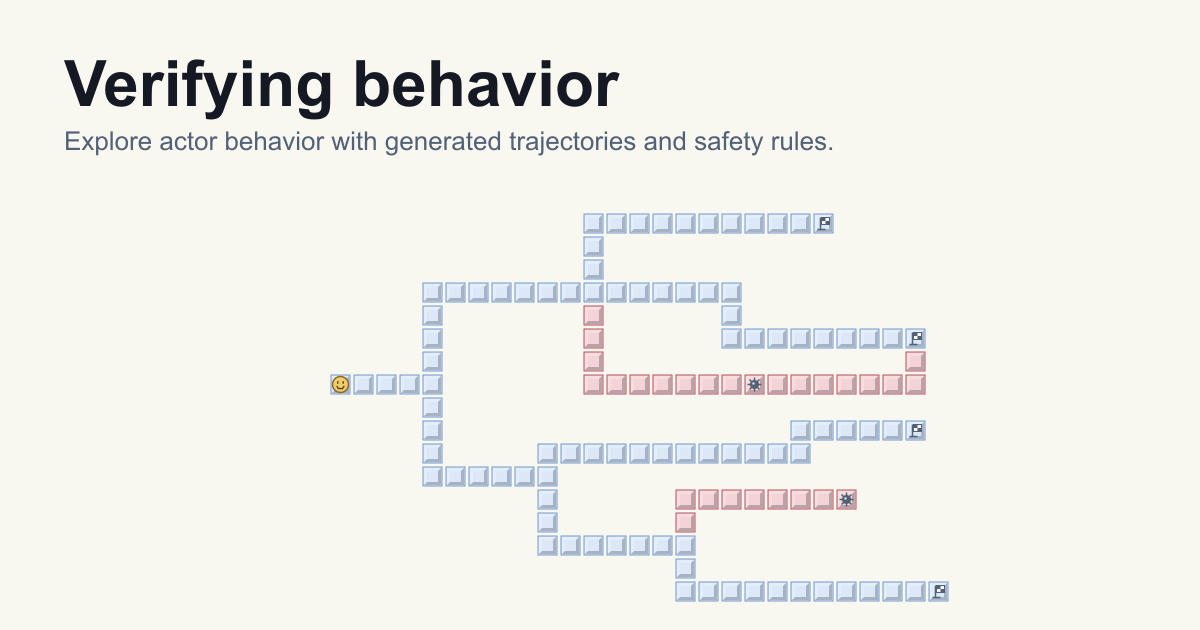
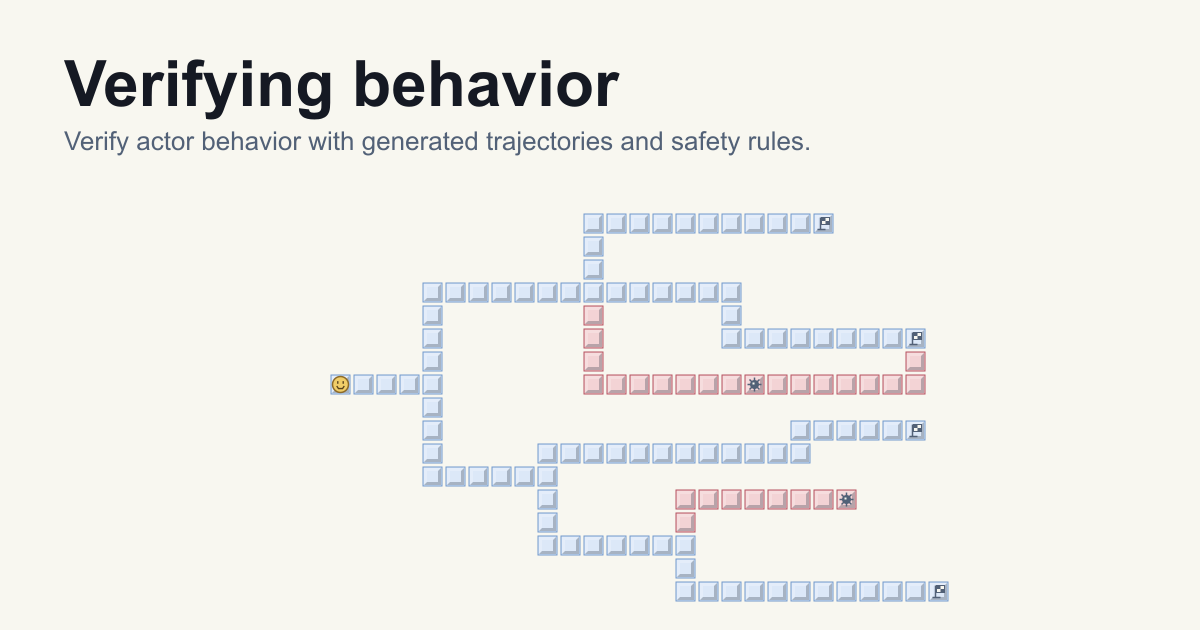
docs: polish verification guide (#513)

Changed region(s): [[0.0308, 0.2111, 0.7092, 0.2413]]

diff --git a/apps/web/src/docs/components/diagrams/FactoryPathsDiagram.tsx b/apps/web/src/docs/components/diagrams/FactoryPathsDiagram.tsx
@@ -63,9 +63,18 @@ const factoryStops = [
   { x: 8, y: 5, kind: "mine", label: "Overflow", water: 12, clips: 1000 },
 ] as const
 
+const mobileStops = [
+  { x: 159, y: 15, kind: "inspect", label: "Inspect", water: 0, clips: 0, gridX: 18, gridY: 8, labelX: 212, labelY: 42, unsafe: false },
+  { x: 159, y: 105, kind: "produce", label: "Batch A", water: 6, clips: 500, gridX: 18, gridY: 98, labelX: 212, labelY: 132, unsafe: false },
+  { x: 58, y: 220, kind: "treat", label: "Treat waste", water: 0, clips: 500, gridX: 15, gridY: 295, labelX: 79, labelY: 282, unsafe: false },
+  { x: 239, y: 220, kind: "produce", label: "Batch B", water: 12, clips: 1000, gridX: 195, gridY: 295, labelX: 260, labelY: 282, unsafe: true },
+  { x: 58, y: 390, kind: "produce", label: "Batch B", water: 6, clips: 1000, gridX: 15, gridY: 455, labelX: 79, labelY: 452, unsafe: false },
+  { x: 239, y: 390, kind: "mine", label: "Overflow", water: 12, clips: 1000, gridX: 195, gridY: 455, labelX: 260, labelY: 452, unsafe: true },
+] as const
+
 export const FactoryToolsDiagram = (): ReactElement => (
   <figure className="factory-board">
-    <svg viewBox="0 -45 590 455" role="img" aria-label="A tiled path inspects the tank and produces batch A. The blue branch treats waste before batch B. The red branch produces batch B without treatment and overflows. Both routes lead to the same goal of 1,000 paperclips.">
+    <svg className="factory-board-desktop" viewBox="0 -45 590 455" role="img" aria-label="A tiled path inspects the tank and produces batch A. The blue branch treats waste before batch B. The red branch produces batch B without treatment and overflows. Both routes lead to the same goal of 1,000 paperclips.">
       {Array.from(factoryTiles.values(), ({ x, y, unsafe }) => <g key={`${x},${y}`} transform={`translate(${24 + x * 50} ${12 + y * 50})`}>
         <rect className="verification-tile" data-kind={unsafe ? "unsafe" : "safe"} width="42" height="42" />
         <path className="verification-tile-light" d="M1 41V1h40l-5 5H6v30Z" />
@@ -83,7 +92,30 @@ export const FactoryToolsDiagram = (): ReactElement => (
       </g>
       <text className="factory-board-goal" x="512" y="187" textAnchor="end">1,000 clips</text>
     </svg>
+    <svg className="factory-board-mobile" viewBox="0 0 360 630" role="img" aria-label="After inspection and batch A, a vertical blue route treats wastewater before batch B. A parallel red route produces batch B without treatment and reaches an overflow mine.">
+      <g className="factory-board-safe-link" aria-hidden="true">
+        <path d="M180 57v48M180 147v38H79v35M58 241H8v170h50M58 411H8v157h172" />
+      </g>
+      <g className="factory-board-unsafe-link" aria-hidden="true">
+        <path d="M180 185h80v35M281 241h71v170h-71M281 411h71v157H180" />
+      </g>
+      {mobileStops.map(({ x, y, kind, label, water, clips, gridX, gridY, labelX, labelY, unsafe }) => <g className="factory-board-stop" data-unsafe={unsafe} key={`${x},${y}`}>
+        <g transform={`translate(${x} ${y})`}>
+          <rect className="verification-tile" data-kind={unsafe ? "unsafe" : "safe"} width="42" height="42" />
+          <path className="verification-tile-light" d="M1 41V1h40l-5 5H6v30Z" />
+          <path className="verification-tile-shadow" d="M1 41h40V1l-5 5v30H6Z" />
+          <g className="factory-board-icon" transform="translate(8 8) scale(.8125)"><FactoryGlyph kind={kind} /></g>
+        </g>
+        <text x={labelX} y={labelY} textAnchor={y < 200 ? "start" : "middle"}>{label}</text>
+        <g transform={`translate(${gridX} ${gridY})`}><ResourceGrid water={water} clips={clips} /></g>
+      </g>)}
+      <g className="verification-tile-mark" transform="translate(180 575) scale(2)">
+        <path d="M-3 6V-6m-3 12h8" />
+        <path className="verification-flag" d="M-2-6h8v7h-8Z" />
+        <path className="verification-flag-checks" d="M-2-6h4v3.5h-4Zm4 3.5h4V1H2Z" />
+      </g>
+      <text className="factory-board-goal" x="180" y="612" textAnchor="middle">1,000 clips</text>
+    </svg>
     <figcaption>One small cell = 1 water unit. Each paperclip cell = 100 clips; the full grid = 1,000 clips. Empty cells show remaining capacity; red cells outside the grid show spilled waste.</figcaption>
   </figure>
 )
-

diff --git a/apps/web/src/docs/components/diagrams/ClippieToolsDiagram.tsx b/apps/web/src/docs/components/diagrams/ClippieToolsDiagram.tsx
@@ -10,7 +10,7 @@ const tools = [
 
 export const ClippieToolsDiagram = (): ReactElement => (
   <figure className="clippie-tools">
-    <svg viewBox="0 0 860 280" role="img" aria-label="Clippy uses three tools to act on the world: Inspect water tank and Treat wastewater connect to the tank; Produce paperclips connects to the factory, which pipes waste to the tank">
+    <svg className="clippie-tools-desktop" viewBox="0 0 860 280" role="img" aria-label="Clippy uses three tools to act on the world: Inspect water tank and Treat wastewater connect to the tank; Produce paperclips connects to the factory, which pipes waste to the tank">
       <text className="clippie-world-label" x="704" y="48" textAnchor="middle">World</text>
       <g className="clippie-tools-links" aria-hidden="true">
         <path d="M530 57h302v76h-21M530 135h68M530 213h302v-48h-21" />
@@ -42,6 +42,36 @@ export const ClippieToolsDiagram = (): ReactElement => (
         <g className="factory-generated-icon" transform="translate(8 8) scale(.8125)"><FactoryGlyph kind={kind} /></g>
         <text className="clippie-tools-label" x="57" y="26">{name}</text>
       </g>)}
+    </svg>
+    <svg className="clippie-tools-mobile" viewBox="0 0 360 585" role="img" aria-label="Clippy connects to three vertically stacked tools. The tools act on a factory and water tank below.">
+      <image href={tardie} x="80" y="0" width="200" height="144" />
+      <text className="clippie-tools-name" x="180" y="158" textAnchor="middle">Clippy</text>
+      <g className="clippie-tools-links" aria-hidden="true">
+        <path d="M180 167v13H37v147M37 207h15m-15 60h15m-15 60h15" />
+        <path d="M273 207h52v140H180v47M273 267h52M273 327h52" />
+        <path d="m175 389 5 5 5-5" />
+      </g>
+      {tools.map(({ kind, name }, index) => <g key={kind} transform={`translate(52 ${186 + index * 60})`}>
+        <rect className="verification-tile" width="42" height="42" />
+        <path className="verification-tile-light" d="M1 41V1h40l-5 5H6v30Z" />
+        <path className="verification-tile-shadow" d="M1 41h40V1l-5 5v30H6Z" />
+        <g className="factory-generated-icon" transform="translate(8 8) scale(.8125)"><FactoryGlyph kind={kind} /></g>
+        <text className="clippie-tools-label" x="55" y="26">{name}</text>
+      </g>)}
+      <text className="clippie-world-label" x="180" y="414" textAnchor="middle">World</text>
+      <g className="clippie-factory-scene" transform="translate(40 416) scale(1.2)" aria-hidden="true">
+        <path className="clippie-factory-pipe" d="M144 96h16v7h20" />
+        <path className="clippie-factory-building" d="M35 66V28h16v38" />
+        <path className="clippie-factory-building" d="M24 115V71l40-19v19l40-19v19h40v44Z" />
+        <path className="clippie-factory-detail" d="M36 86h13v13H36Zm25 0h13v13H61Zm25 0h13v13H86Z" />
+        <path className="clippie-factory-detail" d="M115 115V89h17v26" />
+        <path className="clippie-factory-tank" d="M180 52h45v64h-45Z" />
+        <path className="clippie-factory-water" d="M183 80q5-3 10 0t10 0 10 0 9 0v33h-39Z" />
+        <path className="clippie-factory-detail" d="M179 48h47m-43 15h39" />
+        <path className="clippie-factory-level" d="M217 73h5m-5 12h5m-5 12h5" />
+        <text className="clippie-scene-label" x="84" y="135" textAnchor="middle">Factory</text>
+        <text className="clippie-scene-label" x="202" y="135" textAnchor="middle">Water tank</text>
+      </g>
     </svg>
   </figure>
 )

diff --git a/apps/web/src/styles.css b/apps/web/src/styles.css
@@ -1185,6 +1185,11 @@ h1 span { display: block; white-space: nowrap; }
 
 .clippie-tools { margin: 20px 0 28px; }
 .clippie-tools > svg { display: block; width: 100%; max-width: 800px; height: auto; margin-inline: auto; }
+.clippie-tools > .clippie-tools-mobile { display: none; }
+@media (max-width: 560px) {
+  .clippie-tools > .clippie-tools-desktop { display: none; }
+  .clippie-tools > .clippie-tools-mobile { display: block; max-width: 360px; }
+}
 .clippie-factory-building, .clippie-factory-tank { fill: light-dark(#e1eaf5, #20364e); stroke: light-dark(#7299cb, #719bcf); stroke-width: 2; stroke-linejoin: round; }
 .clippie-factory-detail { fill: none; stroke: light-dark(#7299cb, #91b4db); stroke-width: 1.7; stroke-linecap: round; stroke-linejoin: round; }
 .clippie-factory-pipe { fill: none; stroke: light-dark(#7299cb, #719bcf); stroke-width: 4; stroke-linejoin: round; }
@@ -1256,6 +1261,14 @@ h1 span { display: block; white-space: nowrap; }
 
 .factory-board { margin: 30px 0; }
 .factory-board > svg { display: block; width: 100%; height: auto; overflow: visible; }
+.factory-board > .factory-board-mobile { display: none; }
+@media (max-width: 560px) {
+  .factory-board > .factory-board-desktop { display: none; }
+  .factory-board > .factory-board-mobile { display: block; }
+}
+.factory-board-safe-link, .factory-board-unsafe-link { fill: none; stroke-width: 1.5; }
+.factory-board-safe-link { stroke: light-dark(#7299cb, #91b4db); }
+.factory-board-unsafe-link { stroke: light-dark(#b55260, #d17f8d); }
 .factory-board-icon { fill: none; stroke: light-dark(#385d89, #c0d8f4); stroke-width: 2.2; stroke-linecap: round; stroke-linejoin: round; }
 .factory-board-stop[data-unsafe="true"] .factory-board-icon { stroke: light-dark(#963a49, #efb0bb); }
 .factory-board-stop text, .factory-board-goal { fill: var(--ink-2); font: 11px var(--mono); }
@@ -1286,6 +1299,7 @@ h1 span { display: block; white-space: nowrap; }
 .verification-flag { fill: var(--bg); stroke-width: 1; }
 .verification-flag-checks, .verification-mine { fill: var(--ink-2); stroke: none; }
 .verification-mine-glint { fill: var(--bg); stroke: none; }
+.docs-inline-mine { display: inline-block; width: 1.25em; height: 1.25em; margin-left: .1em; vertical-align: -.28em; }
 .verification-paths figcaption { color: var(--ink-2); font-size: 13px; text-align: center; }
 
 .agent-state-layout { display: grid; grid-template-columns: minmax(0, .8fr) minmax(0, 1.4fr); gap: 20px; align-items: center; }

diff --git a/apps/web/src/docs/components/index.tsx b/apps/web/src/docs/components/index.tsx
@@ -60,6 +60,19 @@ const ChevronIcon = (): ReactElement => (
   <svg viewBox="0 0 20 20" aria-hidden="true"><path d="m6.5 8 3.5 3.5L13.5 8" fill="none" stroke="currentColor" strokeLinecap="round" strokeLinejoin="round" strokeWidth="1.6" /></svg>
 )
 
+const InlineMine = (): ReactElement => (
+  <svg className="docs-inline-mine" viewBox="0 0 24 24" aria-hidden="true" focusable="false">
+    <rect className="verification-tile" data-kind="unsafe" x="1" y="1" width="22" height="22" />
+    <path className="verification-tile-light" d="M2 22V2h20l-3 3H5v14Z" />
+    <path className="verification-tile-shadow" d="M2 22h20V2l-3 3v14H5Z" />
+    <g className="verification-tile-mark" transform="translate(12 12) scale(.7)">
+      <path d="M0-7v14M-7 0H7M-5-5 5 5M5-5-5 5" />
+      <circle className="verification-mine" r="4.5" />
+      <rect className="verification-mine-glint" x="-2" y="-2" width="2" height="2" />
+    </g>
+  </svg>
+)
+
 const Command = ({ label, value }: { readonly label?: string; readonly value: string }): ReactElement => {
   const [copied, copy] = useCopy()
   return (
@@ -296,6 +309,7 @@ export const mdxComponents = {
   StateExplosionDiagram,
   AgentStateMachineDiagram,
   VerificationPathsDiagram,
+  InlineMine,
   PaperclipProblemDiagram,
   FactoryToolsDiagram,
   ClippieToolsDiagram,
